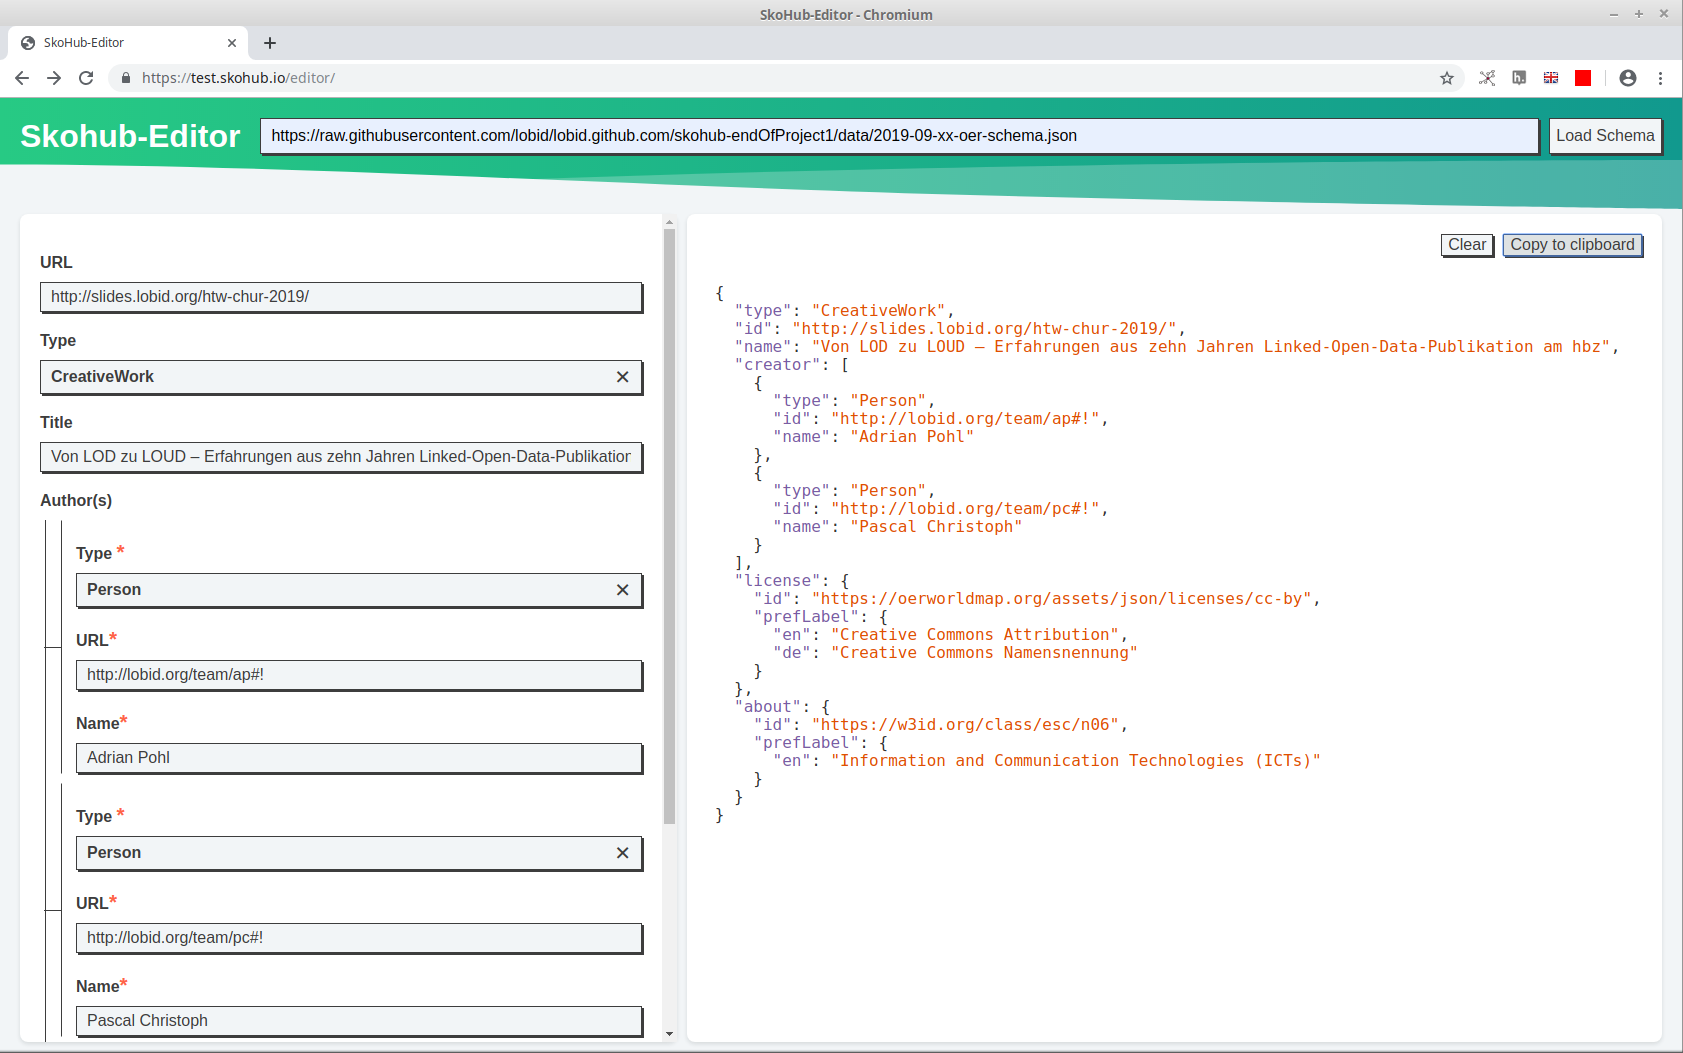
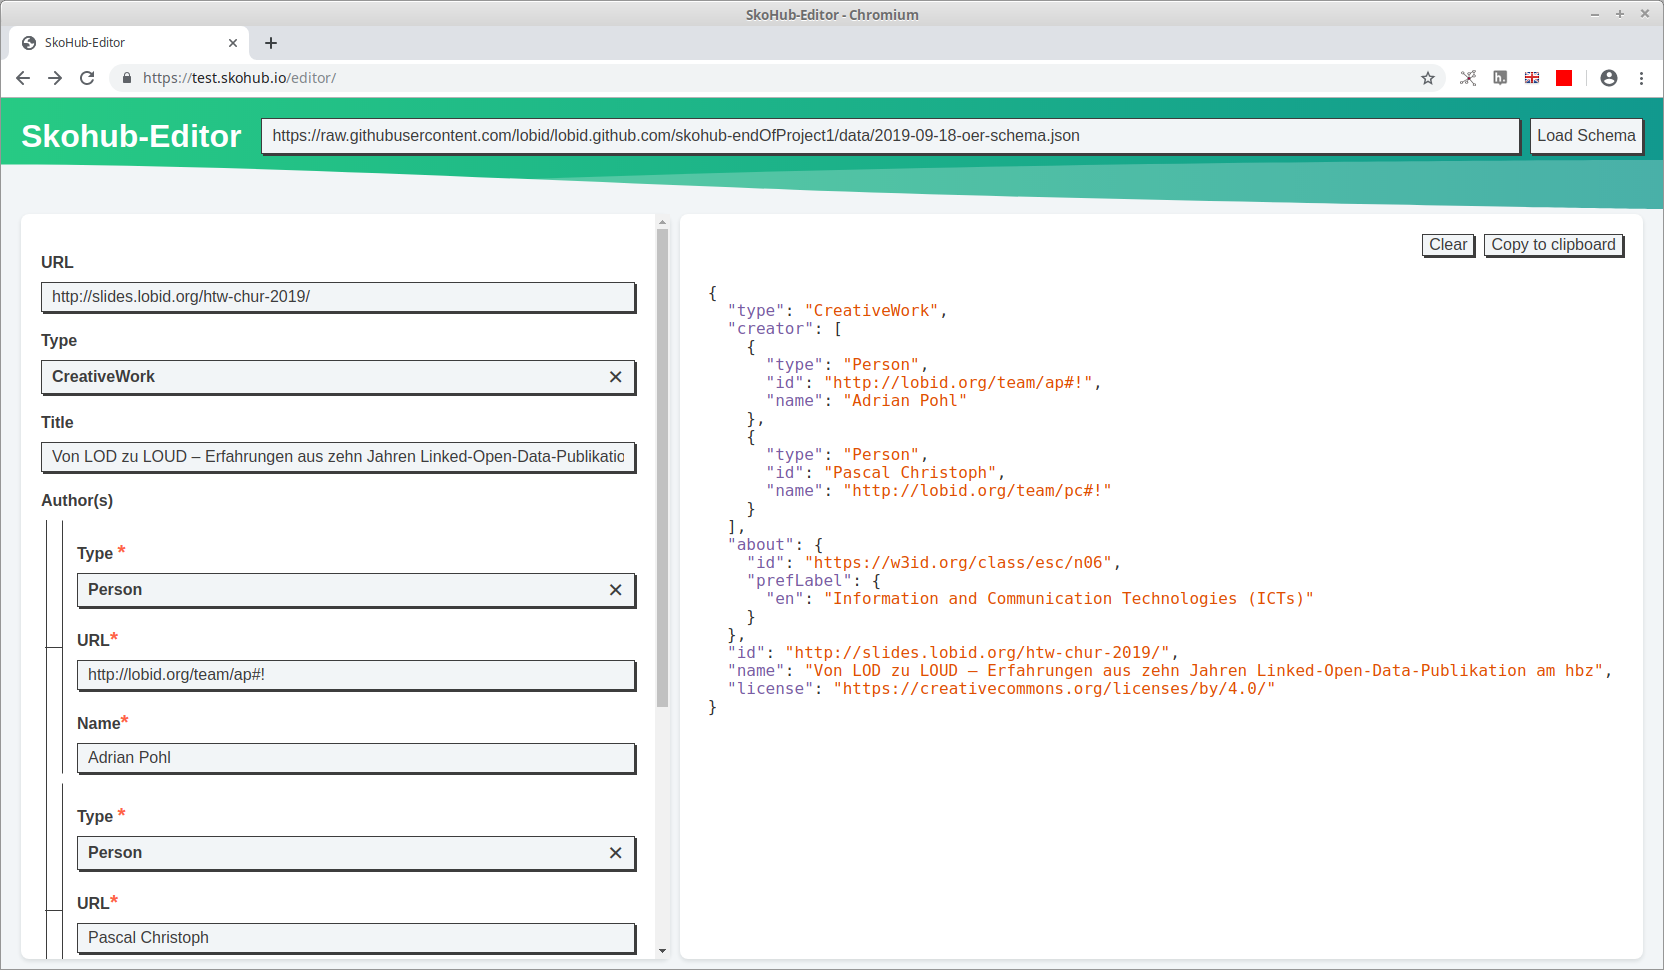
Add images and workflow description

diff --git a/_posts/2019-09-18-skohub-prototype.md b/_posts/2019-09-18-skohub-prototype.md
@@ -20,20 +20,72 @@ The SkoHub prototype outlined in our post ["SkoHub: Enabling KOS-based content s
 
 Let's start with this demo to make this clearer.
 
-# Configuring the editor
+# Configuring & using the editor
 
 The SkoHub Editor ([demo](https://test.skohub.io/editor/), [code](https://github.com/hbz/skohub-editor)) is configured with a [JSON schema](https://json-schema.org/understanding-json-schema/) document that simultaneously allows validation of the entered content.
 
-I created a basic JSON schema for our purpose, see xx. I can now load a web form in SkoHub Editor based on this schema and input the information, e.g. describing the [slides](http://slides.lobid.org/htw-chur-2019/#/) for a class the lobid team gave at HTW Chur (see [this post in German](http://blog.lobid.org/2019/04/04/lobid-at-htw.html)).
+I created a [basic JSON schema](https://github.com/lobid/lobid.github.com/blob/master/data/2019-09-18-oer-schema.json) for our purpose. I can now load [a web form in SkoHub Editor based on this schema](https://test.skohub.io/editor/?schema=https://raw.githubusercontent.com/lobid/lobid.github.com/master/data/2019-09-18-oer-schema.json) (by providing the link to the [raw JSON file of the schema](https://raw.githubusercontent.com/lobid/lobid.github.com/skohub-endOfProject1/data/2019-09-18-oer-schema.json)) and input the information, e.g. to describe the [slides](http://slides.lobid.org/htw-chur-2019/#/) for a class the lobid team gave at HTW Chur (see [this post in German](http://blog.lobid.org/2019/04/04/lobid-at-htw.html)).
 
 <img src="/images/2019-09-18-skohub-prototype/editor-input.png" alt="Screenshot of the SkoHub editor with input describing slides for a class." style="width:650px">
 
+The schema is pretty straightforward, as with every JSOn schema I can specify which fields to show, what type of input they expect and provide a list of values to be selected from for a specific field like the schema does in [lines 65 to 74](https://github.com/lobid/lobid.github.com/blob/3ebb98904e01cc445c27f966686de4012f93cae5/data/2019-09-18-oer-schema.json#L65-L74) for choosing one of three OER licenses.
+
+Where it gets interesting is when you input a value in the "Subject" field.
+
+<img src="/images/2019-09-18-skohub-prototype/auto-suggestion-from-skos-vocab.png" alt="The string \"inform\" is input in the subject field and several entries with this string from a controlled vocabulary are suggested." style="width:650px">
+
+Here a SkoHub-specific addition to JSON schema – the SkoHub Lookup Widget – is used to suggest entries from a controlled vocabulary.
+
+Controlled vocabularies, from smaller value lists to bigger classifications and authority files – are frequently used when describing educational resources or other informative content. The next paragraph describes how to publish a vocabulary with the SkoHub Static Site Generator so that it can be looked up in the SkoHub editor and other SkoHub functionalities can be utilized.
+
+# Publishing a controlled vocabulary with SkohHub Static Site Generator
+
+[SkoHub Static Site Generator](https://github.com/hbz/skohub-ssg) already is quite useful on its own, when used without any other SkoHub modules. It provides means for a GitHub-based workflow to publish an HTML version of [SKOS](https://en.wikipedia.org/wiki/Simple_Knowledge_Organization_System) vocabularies. Let's take a look at the editing and publishing workflow step by step.
+
+In our case, I want to publish a subject classification for Open Educational Resources with SkoHub. We will use the "Educational Subject Classification" (ESC), that was created for the [OER World Map](https://oerworldmap.org) based on [ISCED Fields of Education and Training 2013](http://uis.unesco.org/sites/default/files/documents/isced-fields-of-education-and-training-2013-en.pdf).
+
+## Step 1: Publish vocab on GitHub
+
+Currently, the SKOS vocab has to be published as a [Turtle](https://www.w3.org/TR/turtle/) file on GitHub in order to be processible by SkoHub. As ESC already was [available on GitHub](https://github.com/hbz/vocabs-edu/blob/master/esc.ttl), there was nothing to do in this regard.
+
+## Step 2: Set up webhook
+
+In order to publish your vocabulary to SkoHub you have to set up a webhook in GitHub. This is straightforward:
+
+1.  In the GitHub repo where the vocab resides, got to "Settings" -> "Webhooks" and click "Add webhook"   
+<img src="/images/2019-09-18-skohub-prototype/add-webhook.png" alt="Screenshot of the Webhook page in a GitHub repo with highlighted fields for the navigation path." style="width:650px">
+2. Enter `https://test.skohub.io/build` as payload URL choose `application/json` as content type and enter the secret. (Please [contact](http://lobid.org/team/) us for the secret if you want to try it out.)
+<img src="/images/2019-09-18-skohub-prototype/add-webhook2.png" alt="Screenshot of the Webhook page with input (payload URL and secret)." style="width:650px">
 
 
-# Publishing a controlled vocabulary with SkohHub
+## Step 3: Execute build
 
-- Build error: https://test.skohub.io/build/?id=03f3a817-a11e-4498-a254-a478d4f6b089#44
-- Fix syntax: https://github.com/hbz/vocabs-edu/commit/6ab97649874607df7784eaa0787adadbcefde166
-- Build again: https://test.skohub.io/build/?id=678ba699-758d-498d-afeb-104d8824f282
-- voilà: https://test.skohub.io/hbz/vocabs-edu/
-- PR: https://github.com/perma-id/w3id.org/pull/1483
+For the vocabulary to be build on SkoHub, there has to be a new commit in the master branch. So, I adjust something in the vocab and push it into the master branch. Looking again at the webhook page in the repo settings, I notice that the build was triggered:
+
+<img src="/images/2019-09-18-skohub-prototype/check-webhook-response.png" alt="Screenshot from GitHub Webhook page with information that build was triggered with link to build log." style="width:650px">
+
+However, looking at the [build log](https://test.skohub.io/build/?id=03f3a817-a11e-4498-a254-a478d4f6b089#44), I notice that there is a problem and the site did not build:
+
+<img src="/images/2019-09-18-skohub-prototype/error-in-build-log.png" alt="Screenshot from build log with error message" style="width:650px">
+
+Oups, I did not check the vocab for syntax errors before triggering the build and there actually *is* a syntax error in the turtle. Fixing the syntax in a new [commit](https://github.com/hbz/vocabs-edu/commit/6ab97649874607df7784eaa0787adadbcefde166) will automatically trigger a new build:
+
+<img src="/images/2019-09-18-skohub-prototype/fix-error.png" alt="Screenshot from build log with error message" style="width:650px">
+
+This time the [build](https://test.skohub.io/build/?id=678ba699-758d-498d-afeb-104d8824f282) goes through without errors and – voilà – SkoHub has publised a human-readable version of the vocabulary: https://test.skohub.io/hbz/vocabs-edu/w3id.org/class/esc/scheme.html. (SkoHub Static Site Generator also publishes an overview of all the SKOS vocaularies in the linked GitHub repo, see https://test.skohub.io/hbz/vocabs-edu/.)
+
+## Step 4: Redirect vocab URI to SkoHub
+
+Now I want the canonical vocabulary namespace URI I defined in the Turtle file to redirect to SkoHub. As I used w3id.org for this, I have to make a [pull request](https://github.com/perma-id/w3id.org/pull/1483) in the respective repo.
+
+<img src="/images/2019-09-18-skohub-prototype/open-pr-at-w3id.png" alt="Screenshot of a pull request to redirect ESC to SkoHub" style="width:650px">
+
+If everything looks good, w3id PRs are merged very quickly, in this case it happend an hour later.
+
+## Result: HTML & JSON-LD representation published with SkoHub & basic GitHub editing workflow available
+
+
+# PubSub
+
+
+# Work for production
